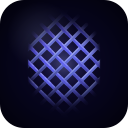
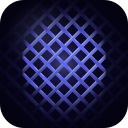
docs: enlarge weave, add ghost pattern, expand README intro
- Icon + cover: bright weave ~15% larger, with a dim ghost crosshatch
  visible outside the blur that fades radially to black at the edges.
- README: new paragraph explaining that you pick the team via build-team
  and that each dispatch clears sign-offs, proofreads, and peer review
  before the subagent runs.

diff --git a/README.md b/README.md
@@ -6,6 +6,8 @@
 
 Weaves Linear into your automated agent-team workflow.
 
+Delegate with confidence. You pick the team — roles like Lead, Architect, Security, QA, or Scribe, shaped to your project through the `build-team` interview and given their own voice, stake, and standards. Every request then passes through the personas you assembled: they sign off on the plan, proofread the dispatch prompt, and peer-review every handoff before the work reaches the subagent that executes it. You stay in the loop at the one decision that matters: the explicit `dispatch-ok` label that releases the work to run.
+
 A Claude Code starter kit that turns any Linear issue into a reviewed PR through a personality-driven dev-team meeting, a paranoid dispatch-review gate, and a single subagent execution pass.
 
 ```
